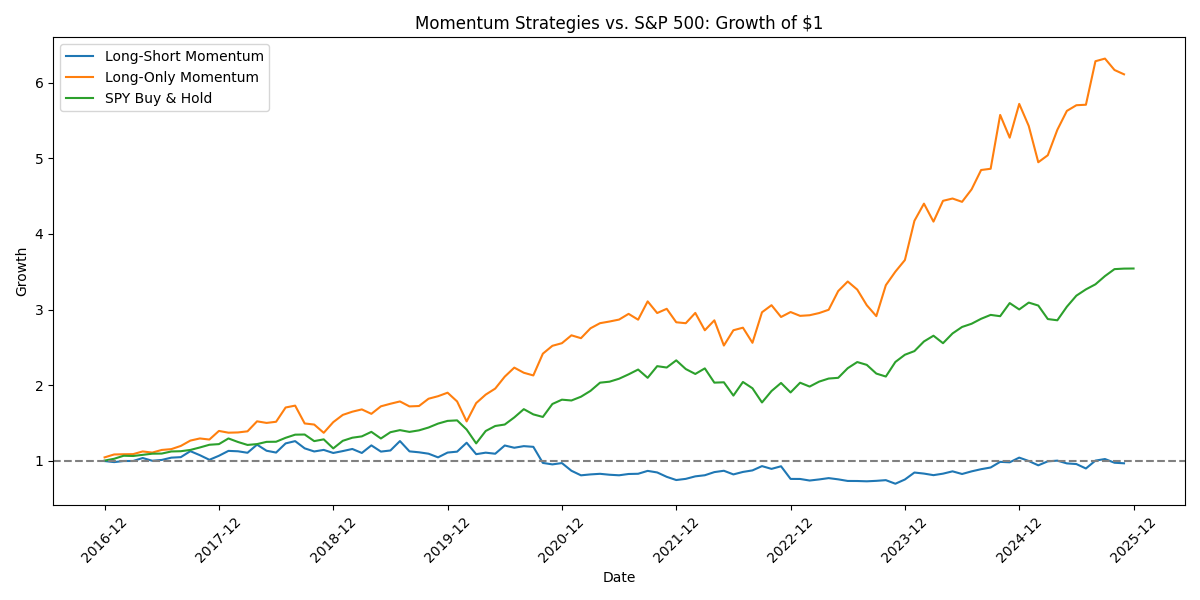
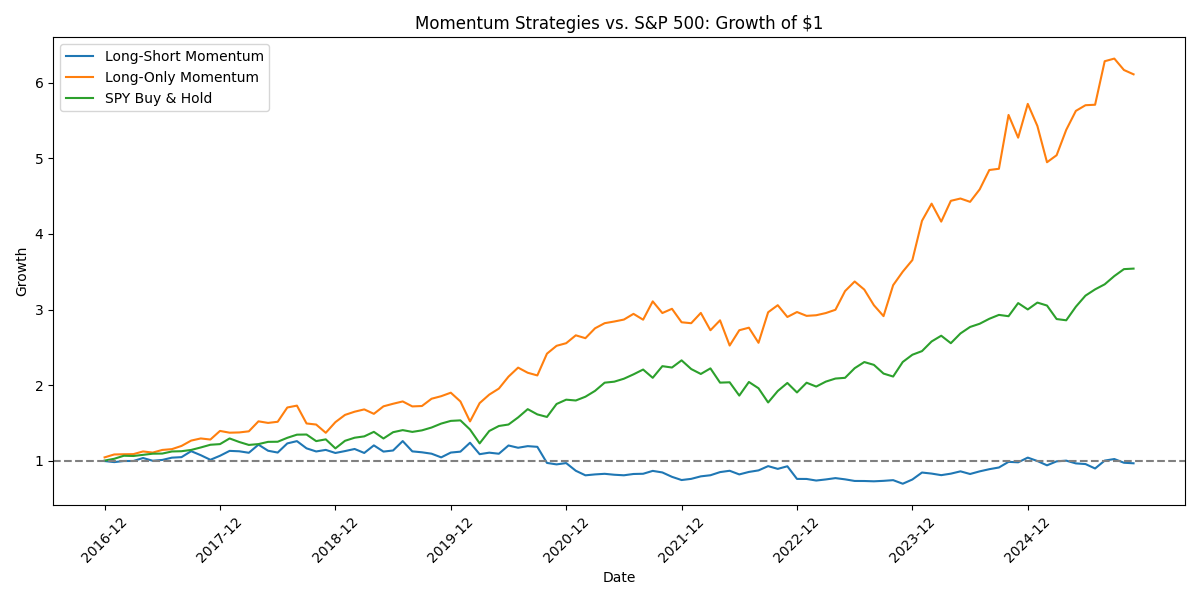
Updated README and graph axis

diff --git a/README.md b/README.md
@@ -8,13 +8,14 @@ This project implements the well-documented momentum factor: stocks that have pe
 
 ## Key Findings
 
-The classic long-short momentum strategy produced a -0.11 Sharpe with 45% max drawdown — worse than holding cash. However, long-only momentum achieved 0.93 Sharpe with only 21% drawdown, nearly matching SPY (1.02 Sharpe during bull-market, w/ 24% max drawdown). The short leg destroyed value in a bull market, demonstrating why many practitioners prefer long-only factor tilts over market-neutral approaches.
+The classic long-short momentum strategy produced a -0.11 Sharpe with 45% max drawdown — worse than holding cash. However, a Long-only momentum strategy outperformed SPY Buy & Hold across all metrics: higher Sharpe (0.93 vs 0.79), nearly double the total return (~487% vs ~254%), and lower maximum drawdown (-20.8% vs -24.0%). The short leg destroyed value in a bull market, demonstrating why many practitioners prefer long-only factor tilts over market-neutral approaches.
+*This does not take into account managagemnt fees or taxes*
 
 | Strategy | Sharpe | Max Drawdown | Total Return |
 |----------|--------|--------------|--------------|
-| Long-Short Momentum | -0.11 | -44.9% | -5% |
-| Long-Only Momentum | 0.93 | -20.8% | ~520% |
-| SPY Buy & Hold | 1.02 | -24.0% | ~250% |
+| Long-Short Momentum | -0.11 | -44.9% | -3% |
+| Long-Only Momentum | 0.93 | -20.8% | ~487% |
+| SPY Buy & Hold | 0.79 | -24.0% | ~254% |
 
 - **Pre-COVID (2016-2020):** Strategy worked as expected, compounding to ~$1.25 on $1 invested
 - **March 2020:** Momentum crash — the strategy suffered a ~45% drawdown as market leadership violently reversed
